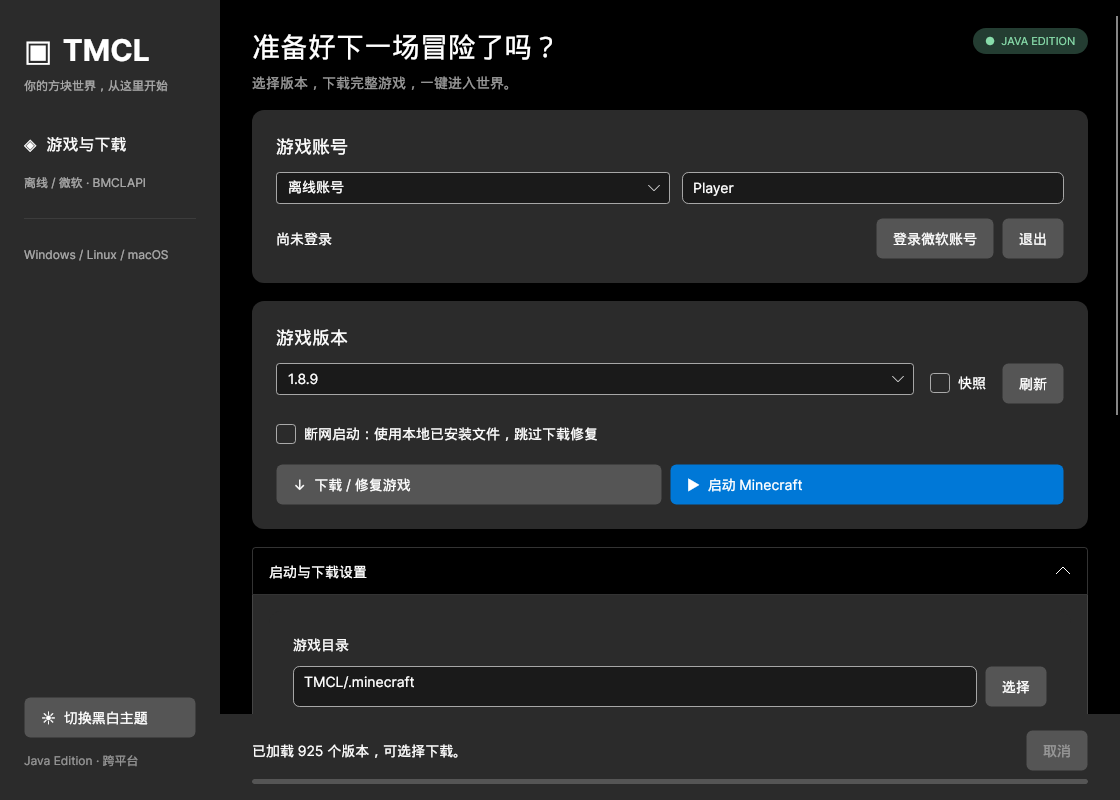
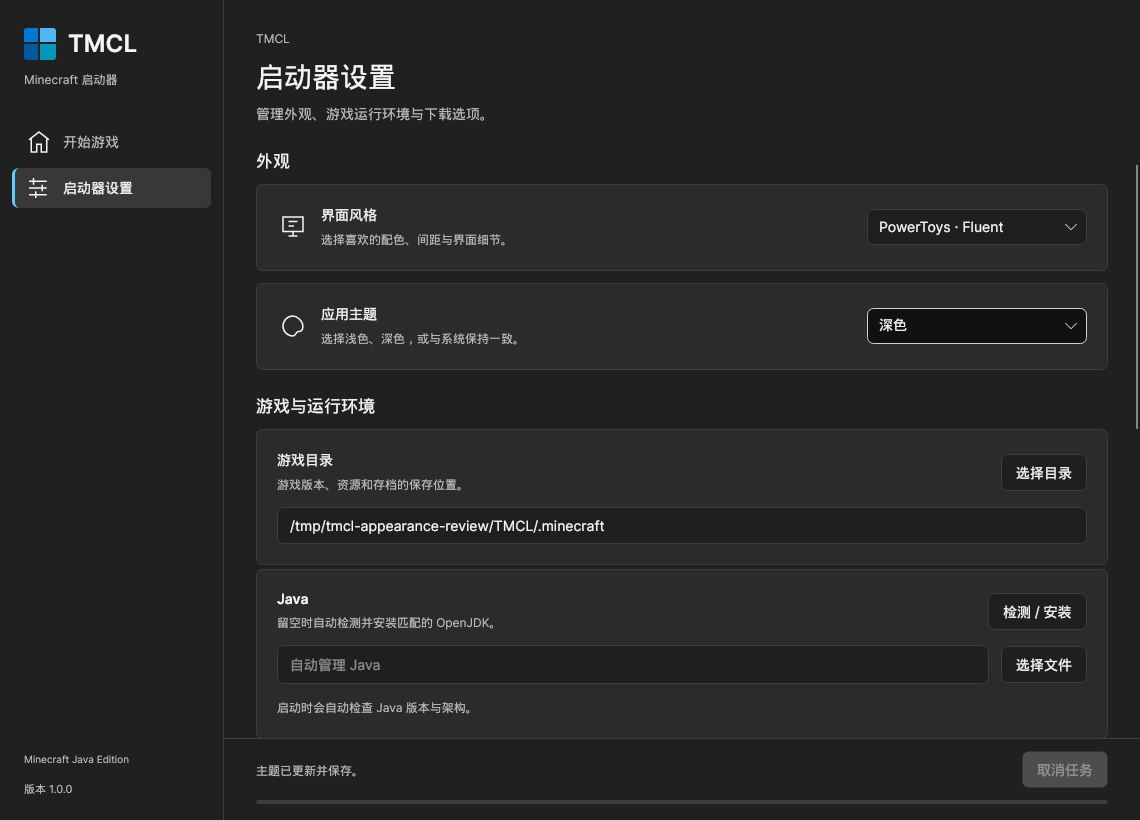
Add switchable PowerToys and Claude interfaces with light, dark and system themes

diff --git a/src/Tmcl.App/MainWindow.axaml.cs b/src/Tmcl.App/MainWindow.axaml.cs
@@ -46,7 +46,13 @@ public partial class MainWindow : Window
         SourceBox.SelectedIndex = settings.SourceMode switch { "BMCLAPI" => 1, "Official" => 2, _ => 0 };
         SourceBox.SelectionChanged += (_, _) => UpdateSourceStatus();
         UpdateSourceStatus();
+        settings.Theme ??= settings.Dark ? "Dark" : "Light";
+        ThemeBox.SelectedIndex = settings.Theme switch { "Light" => 0, "System" => 2, _ => 1 };
         ApplyTheme();
+        StyleBox.SelectedIndex = settings.InterfaceStyle == "Claude" ? 1 : 0;
+        ApplyInterfaceStyle();
+        StyleBox.SelectionChanged += StyleChanged;
+        ThemeBox.SelectionChanged += ThemeChanged;
         LocalOnlyBox.IsCheckedChanged += async (_, _) => { if (!busy) await RunOperation(RefreshVersions); };
         Opened += async (_, _) => await RunOperation(async token =>
         {
@@ -57,12 +63,60 @@ public partial class MainWindow : Window
         Closing += (_, _) => { operation?.Cancel(); try { SaveSettings(); } catch (IOException) { } };
     }
 
-    private void ApplyTheme() => Application.Current!.RequestedThemeVariant = settings.Dark ? ThemeVariant.Dark : ThemeVariant.Light;
-    private void ThemeClick(object? sender, RoutedEventArgs e)
+    private void ApplyTheme() => Application.Current!.RequestedThemeVariant = settings.Theme switch
     {
-        settings.Dark = !settings.Dark;
+        "Light" => ThemeVariant.Light,
+        "System" => ThemeVariant.Default,
+        _ => ThemeVariant.Dark
+    };
+    private void ThemeChanged(object? sender, SelectionChangedEventArgs e)
+    {
+        settings.Theme = ThemeBox.SelectedIndex switch { 0 => "Light", 2 => "System", _ => "Dark" };
+        settings.Dark = settings.Theme == "Dark";
         ApplyTheme();
-        try { SaveSettings(); } catch (Exception ex) { StatusText.Text = "主题已切换，但设置保存失败：" + ex.Message; }
+        // Appearance can be changed even while a download is in progress.
+        try { settings.Save(); StatusText.Text = "主题已更新并保存。"; }
+        catch (Exception ex) { StatusText.Text = "主题已切换，但保存失败：" + ex.Message; }
+    }
+    private void ApplyInterfaceStyle()
+    {
+        bool claude = settings.InterfaceStyle == "Claude";
+        Appearance.Apply(settings.InterfaceStyle);
+        PageTitle.FontSize = claude ? 30 : 28;
+        PageTitle.FontWeight = claude ? Avalonia.Media.FontWeight.Medium : Avalonia.Media.FontWeight.SemiBold;
+        PowerToysBrand.IsVisible = !claude;
+        ClaudeBrand.IsVisible = claude;
+        UpdatePageHeading();
+    }
+    private void StyleChanged(object? sender, SelectionChangedEventArgs e)
+    {
+        settings.InterfaceStyle = StyleBox.SelectedIndex == 1 ? "Claude" : "PowerToys";
+        ApplyInterfaceStyle();
+        try { settings.Save(); StatusText.Text = "界面风格已更新并保存。"; }
+        catch (Exception ex) { StatusText.Text = "界面风格已切换，但保存失败：" + ex.Message; }
+    }
+    private void UpdatePageHeading()
+    {
+        bool showSettings = SettingsView.IsVisible;
+        bool claude = settings.InterfaceStyle == "Claude";
+        PageTitle.Text = showSettings ? (claude ? "外观与偏好" : "启动器设置") : (claude ? "回到你的方块世界" : "开始游戏");
+        PageSubtitle.Text = showSettings ? "管理外观、游戏运行环境与下载选项。" : (claude ? "选好版本，让熟悉的冒险继续。" : "管理游戏版本与账号，启动 Minecraft。");
+    }
+    private void ShowPage(bool showSettings)
+    {
+        SettingsView.IsVisible = showSettings;
+        GameView.IsVisible = !showSettings;
+        GameNavButton.Classes.Set("selected", !showSettings);
+        SettingsNavButton.Classes.Set("selected", showSettings);
+        UpdatePageHeading();
+        MainScroll.Offset = Vector.Zero;
+    }
+    private void GamePageClick(object? sender, RoutedEventArgs e) => ShowPage(false);
+    private void SettingsPageClick(object? sender, RoutedEventArgs e) => ShowPage(true);
+    private void SaveSettingsClick(object? sender, RoutedEventArgs e)
+    {
+        try { SaveSettings(); StatusText.Text = "设置已保存，下次启动游戏时生效。"; }
+        catch (Exception ex) { StatusText.Text = "设置保存失败：" + ex.Message; }
     }
     private void SaveSettings()
     {
@@ -262,7 +316,7 @@ public partial class MainWindow : Window
         if (msal != null) await MsalClientHelper.RemoveAccounts(msal);
         login?.AccountManager.ClearAccounts();
         session = null;
-        AccountText.Text = "尚未登录";
+        AccountText.Text = "微软账号未登录，离线账号可直接使用。";
         AccountModeBox.SelectedIndex = 0;
         StatusText.Text = "已退出微软账号，已切换为离线账号。";
     });

diff --git a/src/Tmcl.App/Appearance.cs b/src/Tmcl.App/Appearance.cs
@@ -1,0 +1,45 @@
+using Avalonia;
+using Avalonia.Media;
+using Avalonia.Styling;
+using Avalonia.Themes.Fluent;
+
+namespace Tmcl.App;
+
+internal static class Appearance
+{
+    private static readonly string[] Keys =
+    ["PageBrush", "SidebarBrush", "SurfaceBrush", "InsetBrush", "LineBrush", "InkBrush", "MutedBrush", "AccentBrush", "AccentInkBrush", "SelectedBrush"];
+
+    public static void Apply(string style)
+    {
+        bool claude = style == "Claude";
+        string[] light = claude
+            ? ["#F8F7F4", "#EFEEE8", "#FFFFFF", "#F3F1EB", "#E5E1D9", "#302D29", "#77716A", "#A4573D", "#FFFFFF", "#E4DFD5"]
+            : ["#F3F3F3", "#F3F3F3", "#FFFFFF", "#FFFFFF", "#E5E5E5", "#1A1A1A", "#606060", "#0067C0", "#FFFFFF", "#E6E6E6"];
+        string[] dark = claude
+            ? ["#242320", "#1D1C19", "#2C2B27", "#24231F", "#403D36", "#EEEAE2", "#ADA69B", "#CE967B", "#241C17", "#35322C"]
+            : ["#202020", "#202020", "#2B2B2B", "#1F1F1F", "#3D3D3D", "#F5F5F5", "#BDBDBD", "#60CDFF", "#00324C", "#383838"];
+        var app = Application.Current!;
+        SetPalette(app, ThemeVariant.Light, light);
+        SetPalette(app, ThemeVariant.Dark, dark);
+        if (app.Styles.OfType<FluentTheme>().FirstOrDefault() is { } fluent)
+        {
+            fluent.Palettes[ThemeVariant.Light].Accent = Color.Parse(light[7]);
+            fluent.Palettes[ThemeVariant.Dark].Accent = Color.Parse(dark[7]);
+        }
+        app.Resources["CardPadding"] = new Thickness(claude ? 24 : 20);
+        app.Resources["CardRadius"] = new CornerRadius(claude ? 10 : 6);
+        app.Resources["ControlPadding"] = claude ? new Thickness(16, 10) : new Thickness(14, 8);
+        app.Resources["ControlHeight"] = claude ? 40d : 36d;
+        app.Resources["PageHeaderMargin"] = claude ? new Thickness(40, 32, 40, 24) : new Thickness(32, 28, 32, 24);
+        app.Resources["PageContentMargin"] = claude ? new Thickness(40, 0, 40, 32) : new Thickness(32, 0, 32, 24);
+        app.Resources["FooterPadding"] = claude ? new Thickness(40, 16, 40, 20) : new Thickness(32, 12, 32, 16);
+    }
+
+    private static void SetPalette(Application app, ThemeVariant variant, string[] colors)
+    {
+        var dictionary = new Avalonia.Controls.ResourceDictionary();
+        for (int i = 0; i < Keys.Length; i++) dictionary[Keys[i]] = new SolidColorBrush(Color.Parse(colors[i]));
+        app.Resources.ThemeDictionaries[variant] = dictionary;
+    }
+}

diff --git a/src/Tmcl.App/Settings.cs b/src/Tmcl.App/Settings.cs
@@ -12,7 +12,9 @@ public sealed class Settings
     public string Version { get; set; } = "1.8.9";
     public int Threads { get; set; } = 8;
     public int Memory { get; set; } = (int)Math.Clamp(GC.GetGCMemoryInfo().TotalAvailableMemoryBytes / 1048576 / 2, 1024, 4096);
-    public bool Dark { get; set; } = true;
+    public bool Dark { get; set; } = false;
+    public string? Theme { get; set; }
+    public string InterfaceStyle { get; set; } = "PowerToys";
     public string SourceMode { get; set; } = "Auto";
     public bool? AutoMirror { get; set; }
     public string CountryCode { get; set; } = "";

diff --git a/README.md b/README.md
@@ -1,14 +1,25 @@
 # TMCL
 
-具有 WinUI 3 / Fluent 风格的 Minecraft Java Edition 跨平台启动器。使用 Avalonia 构建桌面界面，支持 Windows、Linux 和 macOS。默认选择 Minecraft 1.8.9，使用离线账号，微软登录可选。
+提供 PowerToys / Fluent 与 Claude 暖色两种界面风格的 Minecraft Java Edition 跨平台启动器。使用 Avalonia 构建桌面界面，支持 Windows、Linux 和 macOS。默认选择 Minecraft 1.8.9，使用离线账号，微软登录可选。
 
-![黑色主题](docs/dark.png)
+![PowerToys 风格](docs/light.png)
 
-[查看白色主题](docs/light.png)
+## 界面与主题
+
+打开左侧 **启动器设置 → 外观**：
+
+- **界面风格**：PowerToys · Fluent（紧凑、灰白底色、蓝色强调）或 Claude · 简约暖色（暖白 / 炭灰、陶土色、宽松留白）。
+- **应用主题**：浅色、深色、跟随系统。两种界面风格均支持这三种明暗模式。
+- 切换立即生效并自动保存；重启后恢复。下载任务执行中也能切换外观，旧版黑白主题偏好会自动迁移。其他设置可以点击页面底部的“保存设置”。
+
+| 界面风格 | 浅色预览 | 深色预览 |
+| --- | --- | --- |
+| PowerToys · Fluent | [查看](docs/powertoys-light.png) | [查看](docs/powertoys-dark.png) |
+| Claude · 简约暖色 | [查看](docs/claude-light.png) | [查看](docs/claude-dark.png) |
 
 ## 功能
 
-- 中文界面、黑白主题切换，设置自动保存。
+- 中文界面、PowerToys / Claude 两种风格，各支持浅色、深色、跟随系统；外观选项立即生效并自动保存。
 - 正式版 / 快照列表、本地版本扫描、断网启动。
 - 下载源选择：自动 / BMCLAPI / 官方。通过 IPv4 检测地区，中国默认 BMCLAPI、其他地区默认官方；测速后自动模式采用更快的源，手动选择优先。BMCLAPI 请求失败或节点超时会尝试官方源。
 - 1–32 路并发文件下载，已有文件校验、SHA-1 校验、失败重试、取消任务、临时文件清理。重新下载会复用校验通过的文件；尚不支持单文件断点续传。

diff --git a/docs/VALIDATION.md b/docs/VALIDATION.md
@@ -12,3 +12,14 @@
 - GitHub Actions 首轮 Windows、Linux、macOS 的 x64 / ARM64 六种包构建全部成功；后续提交仍须以对应提交的 Actions 状态为准。
 
 没有使用真实微软账号进行端到端授权测试，需要用户自行配置已获 Minecraft API 访问权限的 Client ID。Windows / macOS 已构建，尚未在真实桌面上启动游戏。ARM64 旧版 Minecraft 的原生库兼容性取决于游戏版本，不能由启动器构建成功推断。
+
+## 双界面风格与主题验证
+
+2026-11-19 更新：
+
+- Release 编译零警告、零错误；31 项既有自动化测试通过。
+- 在 Linux 原生 Avalonia 窗口中操作设置下拉框，检查 PowerToys 与 Claude 两套风格的浅色、深色、跟随系统六种组合。
+- 实际验证运行中切换配色、边距、控件尺寸和品牌标识，主题与风格选择独立保存；选择 Claude + 跟随系统后重新打开应用，界面和设置选项正确恢复。
+- 旧版设置仅保存 `Dark: true` 时，启动后迁移为深色主题，并使用默认 PowerToys 风格。
+- 截图为实际桌面窗口截图，详见 `powertoys-light.png`、`powertoys-dark.png`、`claude-light.png`、`claude-dark.png`。
+- 未在本次测试中模拟操作系统明暗主题的实时变化；“跟随系统”通过 Avalonia 的系统主题机制实现。
